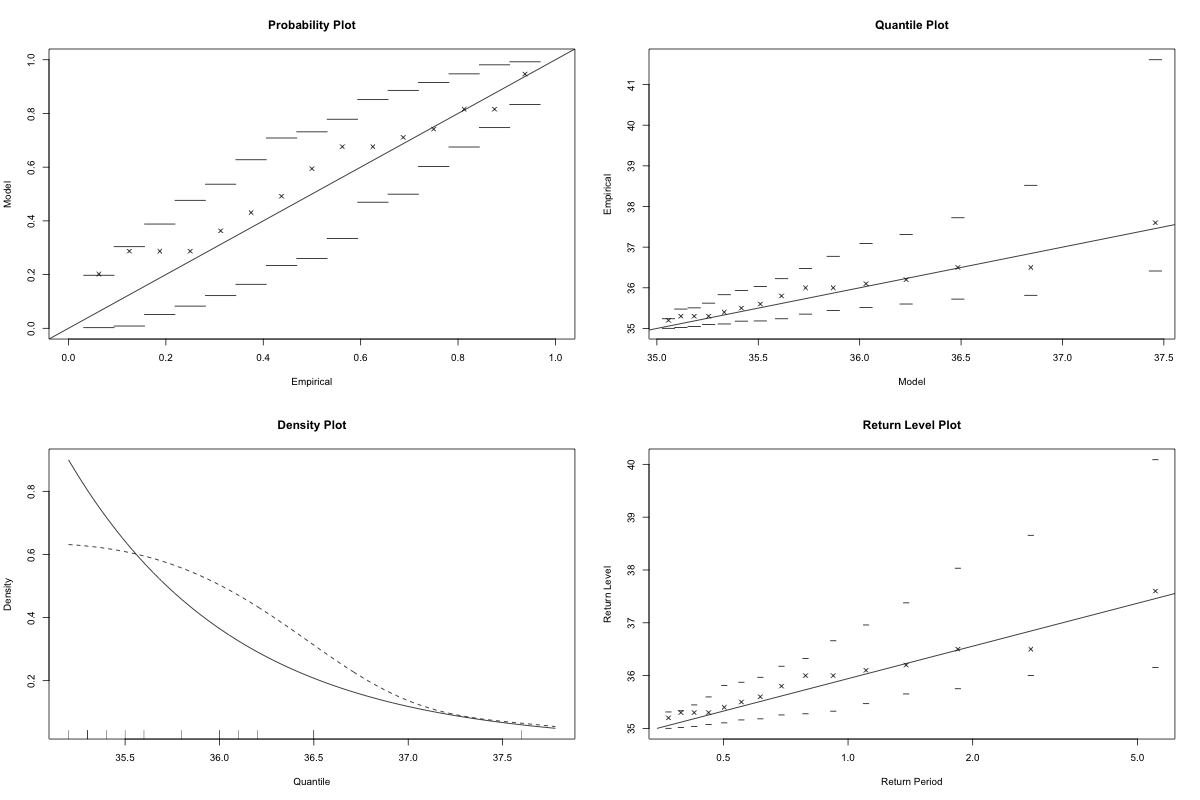
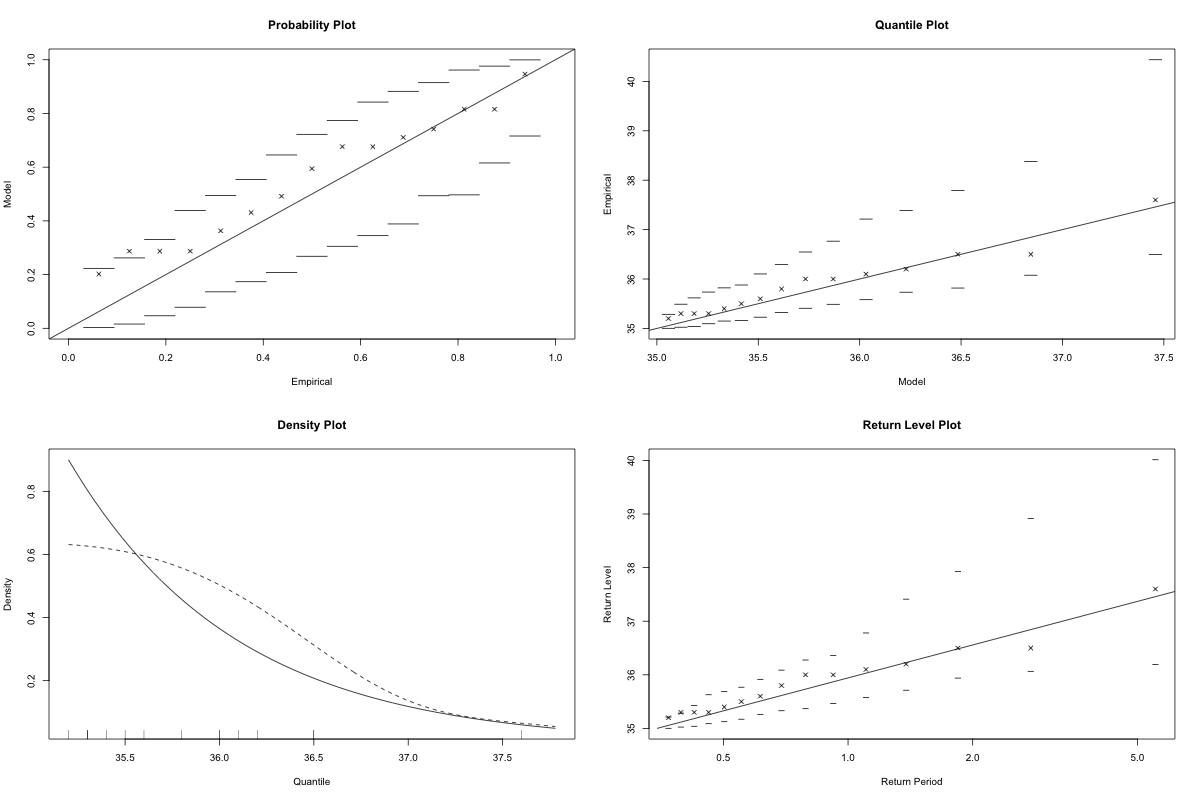
EVA

diff --git a/notebooks/streamlit_EVA.py b/notebooks/streamlit_EVA.py
@@ -106,7 +106,7 @@ def max_min_analysis():
    
     st.plotly_chart(fig)
     
-    st.markdown("To avoid these seasonal variations, a  first common approach in an analysis is to consider different series for each month of the year. In our analysis, the temperatures of January from 1901 to 2021, the temperatures of February from 1901 to 2021, etc. A small trend could be observed for certain months, but it was not taken into account in this first  extreme value analasis. Then, the selection of a fixed threshold for each month was made possible.")
+    st.markdown("To avoid these seasonal variations, a  first common approach in an analysis is to consider different series for each month of the year. In our analysis, the temperatures of January from 1901 to 2021, the temperatures of February from 1901 to 2021, etc. A small trend could be observed for certain months, as in our previous study, but it was not taken into account in this first  extreme value analasis. Then, the selection of a fixed threshold for each month was made possible.")
 
 
     st.header("Choice of Threshold")
@@ -208,7 +208,7 @@ def max_min_analysis():
         
     st.plotly_chart(fig)
 
-    with st.expander("SCore and Cramér-Von Mises Tests"):
+    with st.expander("Score and Cramér-Von Mises Tests"):
         st.markdown("")
         
     st.markdown(r'''For the rest of this study we will therefore take our thresholds as the 90% quantile of each month, as it seems to be accurate.
@@ -216,13 +216,22 @@ def max_min_analysis():
     
     st.header("Declustering and fit of the POT")
     
-    st.markdown(r'''
+    st.markdown(r'''The POT method requires the exceedances to be mutually independent.
+    However, for the temperatures data, threshold exceedances are seen to occur
+    in groups: an extremely warm day is likely to be followed by another. In order to deal with independent variables and be able to apply the POT method, a commonly used technique is declustering, which  filters the dependent observations to obtain a set of threshold excesses that are approximately independent.
     ''')
+    st.markdown("The clusters are defined as follows. First, a threshold is  fixed and clusters of exceedances  are consecutive exceedances of this threshold. Then, a run length (minimum  separation) $r$ is set between each cluster: a cluster is terminated whenever the separation between two threshold exceedances is greater than the run length $r$. The maximum excess in each cluster is identified, and these cluster maxima can be assumed to be independent. Then, the GPD can be  fitted to the cluster maxima.")
+    st.markdown(r"Thus, it is necessary for the temperature data to perform a declustering in order to estimate the parameters $\sigma$  and $\xi$ . A run period of $r = 2$ days was chosen, and the threshold was set to the 90% quantile, as it seems to be quite accurate. In the figures below, we have the diagnostic plots for each month.")
     
     SELECTED_MONTH3 = st.selectbox("Choose a month to view the diagnostic plot of the POT fit",calendar.month_name[1:] , index=0)
 
     file = "DataGenerated/DailyEVA/Diag_plot/ "+str(SELECTED_MONTH3)+" .png"
     st.image(file)
+    
+    st.markdown(r'''The  fit seems to be good since the probability and quantile plots are fairly linear (confidence intervals taken into account) for each month except for the months. In addition, it would appear that there are too few points to obtain a good agreement between the fitted density and the estimated core density. \n
+    La table ci-dessous regroupe les estimations des paramètres $\sigma$  et $\xi$ pour chaque mois, dans les colonnes "sigma" and "shape". In addition, we also have in this table, the standard deviations of our estimates, as well as some normal-based 95% confidence intervals for the both parameters.
+
+    ''')
     
     POT_coef_estimation = pd.read_csv("DataGenerated/DailyEVA/POT_estimation.csv")
     POT_coef_estimation.rename(columns={'Unnamed: 0': ''}, inplace=True)
@@ -232,18 +241,29 @@ def max_min_analysis():
                           if ((0 > x.iloc[6]
                                                     and 0 > x.iloc[7]))
                           else "" for i, v in enumerate(x)], axis = 1))
+                          
+    st.markdown(r"The confidence intervals for the shape parameter all contain $\xi = 0$, except for the estimate for February and April. This suggests that a Gumbel distribution ($\xi$ fixed at $0$) could be at the origin of the extremes patterns underlying these ten months. To investigate this further, we calculated and plotted the profiles likelihood of the parameters with 95% confidence intervals (which are represented on the plots by the values of the parameters whose log-likelihood profile is above the horizontal dotted line).")
+    
     dd = np.array([1,3,5,6,7,8,9,10,11,12])
     SELECTED_MONTH4 = st.selectbox("Choose a month to view its profile likelihood plot",[calendar.month_name[i] for i in dd] , index=0)
 
     file = "DataGenerated/DailyEVA/Prof_likelihood/ "+str(SELECTED_MONTH4)+" .png"
     st.image(file)
     
+    st.markdown(r"For these ten months, the plot of the log-likelihood profiles suggests that the hypothesis $\xi = 0$ is plausible. It is therefore interesting to explore this possibility further.")
+    
     st.header("Gumbel fit")
+    
+    st.markdown(r'''On the plots below we have the Gumbel fit plots for all months except February and April.
+    ''')
     
     SELECTED_MONTH5 = st.selectbox("Choose a month to view the diagnostic plot of the Gumbel fit",[calendar.month_name[i] for i in dd] , index=0)
 
     file = "DataGenerated/DailyEVA/Diag_plot_gumbel/ "+str(SELECTED_MONTH5)+" .png"
     st.image(file)
+    
+    st.markdown(r'''The diagnostic plots seem to indicate an equally good, if not better, fit than the POT model. To decide whether to consider the two-parameter or the one-parameter model, we performed a log-likelihood ratio test for each of the months concerned, in order to find out whether we can significantly assume that $\xi = 0$. The results of these tests are presented in the table below. It can be seen that the null hypothesis, $\xi = 0$, cannot be rejected for each month. In the rest of this study we will therefore consider the one parameter model for each of these months.
+    ''')
     
     p_val = pd.read_csv("DataGenerated/DailyEVA/Likelihood_ratio_p_val.csv")
     p_val.rename(columns={'Unnamed: 0': '','dev': 'Deviance','p_val': 'p_value'}, inplace=True)
@@ -253,6 +273,16 @@ def max_min_analysis():
     with c2:
         st.table(p_val.style.set_caption("P-values of the likelihood ratio test"))
      
-     st.hearder("Non-stationarity: Modelling")
+    st.header("Return Levels and Return Periods")
      
+    return_levels = pd.read_csv("DataGenerated/DailyEVA/return_levels.csv")
+    
+    st.markdown(r'''In the table below, we have estimates of return levels for return periods of 10, 20, 50, 100, 200 and 1000 years, as well as the maximum temperature observe in each month during the study period.
+     ''')
      
+    return_levels.rename(columns={'Unnamed: 0': ''}, inplace=True)
+    return_levels = return_levels.set_index('',drop = True)
+    st.table(return_levels)
+    
+    st.markdown("It can be seen that except for the months of February and April where the returns levels are underestimated compared to the maximum temperatures observed over the period 1901-2021, we have that the observed maximum temperatures correspond to a returns period of 100 to 200 years.")
+
